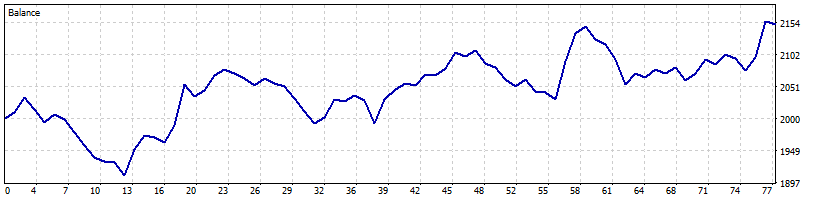
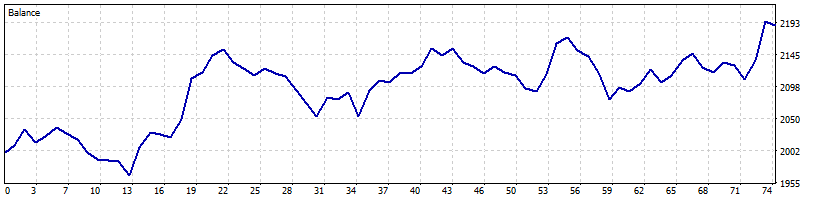
docs: refresh default real-tick report

diff --git a/reports/default-2026-real-ticks/index.html b/reports/default-2026-real-ticks/index.html
@@ -1,16 +1,101 @@
-<!doctype html><html lang="en"><head><meta charset="utf-8"><meta name="viewport" content="width=device-width,initial-scale=1">
-<title>Default profile - XAUUSDm M1 vs M5, real ticks Jan-Sep 2026</title><style>
-:root{--bg:#f6f7f9;--card:#fff;--fg:#1d2330;--mut:#667085;--line:#e3e6ea;--pos:#1a7f37;--neg:#cf222e}
-@media (prefers-color-scheme:dark){:root{--bg:#111418;--card:#1a1f26;--fg:#e6e9ee;--mut:#8b95a3;--line:#2a313b;--pos:#3fb950;--neg:#f85149}}
-body{margin:0;padding:16px;background:var(--bg);color:var(--fg);font:14px/1.45 system-ui,Segoe UI,sans-serif}
-main{max-width:1200px;margin:0 auto} h1{font-size:22px} h2{font-size:17px;margin-top:28px} h3{font-size:15px}
-table{border-collapse:collapse;background:var(--card);border:1px solid var(--line);margin:8px 0;display:block;overflow-x:auto}
-th,td{padding:6px 10px;border-bottom:1px solid var(--line);text-align:left;white-space:nowrap}
-.grid{display:grid;grid-template-columns:repeat(auto-fill,minmax(380px,1fr));gap:10px}
-figure{margin:0;background:var(--card);border:1px solid var(--line);border-radius:8px;padding:8px}
-img{width:100%;height:auto;display:block;background:#fff;border-radius:4px} figcaption{margin-bottom:6px}
-.pos{color:var(--pos);font-weight:600} .neg{color:var(--neg);font-weight:600} .mut{color:var(--mut)}
-</style></head><body><main><h1>Default profile - XAUUSDm M1 vs M5, real ticks Jan-Sep 2026</h1><table><tr><th>EA</th><td>nyao_scalper.mq5</td></tr><tr><th>Settings</th><td>settings/default.set</td></tr><tr><th>Code version</th><td>d0b484e</td></tr><tr><th>Symbol / timeframes</th><td>XAUUSDm / M1, M5</td></tr><tr><th>Tick data</th><td>Every tick based on real ticks</td></tr><tr><th>Deposit / leverage</th><td>2,000 USD / 1:500</td></tr><tr><th>Runs</th><td>one run per month, each starting from a fresh deposit</td></tr><tr><th>Generated</th><td>2026-10-13 01:05 with `tools/backtest/nyao_backtest.py</td></tr></table>
-<h2>Summary</h2><p class="mut">Total return is the sum of the monthly returns (each month starts from the same deposit, not compounded).</p><table><tr><th>Timeframe</th><th>Total return</th><th>Profitable</th><th>Best / worst run</th><th>Max drawdown</th><th>Trades</th><th>Win rate</th><th>Avg win / loss</th><th>Profit factor</th><th>Tick data</th></tr><tr><td>M1</td><td>-12.6%</td><td>4/9</td><td>+30.1% / -28.5%</td><td>39.2%</td><td>1,725</td><td>42%</td><td>$20.09 / -$14.54</td><td>0.98</td><td>100% real ticks</td></tr><tr><td>M5</td><td>+44.1%</td><td>5/9</td><td>+30.8% / -9.5%</td><td>19.0%</td><td>928</td><td>42%</td><td>$21.58 / -$13.87</td><td>1.12</td><td>100% real ticks</td></tr></table>
-<h2>Results per run</h2><table><tr><th>Run</th><th>M1</th><th>M5</th></tr><tr><th>2026-01</th><td><span class="pos">+30.1%</span> <span class="mut">DD 14% · 194 trades</span></td><td><span class="pos">+30.8%</span> <span class="mut">DD 7% · 127 trades</span></td></tr><tr><th>2026-02</th><td><span class="neg">-8.5%</span> <span class="mut">DD 25% · 248 trades</span></td><td><span class="neg">-7.1%</span> <span class="mut">DD 19% · 127 trades</span></td></tr><tr><th>2026-03</th><td><span class="pos">+2.8%</span> <span class="mut">DD 30% · 313 trades</span></td><td><span class="pos">+4.8%</span> <span class="mut">DD 17% · 139 trades</span></td></tr><tr><th>2026-04</th><td><span class="neg">-17.1%</span> <span class="mut">DD 26% · 194 trades</span></td><td><span class="neg">-7.2%</span> <span class="mut">DD 16% · 97 trades</span></td></tr><tr><th>2026-05</th><td><span class="pos">+3.2%</span> <span class="mut">DD 19% · 150 trades</span></td><td><span class="pos">+12.3%</span> <span class="mut">DD 10% · 98 trades</span></td></tr><tr><th>2026-06</th><td><span class="pos">+19.0%</span> <span class="mut">DD 18% · 204 trades</span></td><td><span class="pos">+21.0%</span> <span class="mut">DD 11% · 127 trades</span></td></tr><tr><th>2026-07</th><td><span class="neg">-6.8%</span> <span class="mut">DD 15% · 132 trades</span></td><td><span class="pos">+7.5%</span> <span class="mut">DD 8% · 77 trades</span></td></tr><tr><th>2026-08</th><td><span class="neg">-6.7%</span> <span class="mut">DD 14% · 144 trades</span></td><td><span class="neg">-9.5%</span> <span class="mut">DD 14% · 68 trades</span></td></tr><tr><th>2026-09</th><td><span class="neg">-28.5%</span> <span class="mut">DD 39% · 146 trades</span></td><td><span class="neg">-8.6%</span> <span class="mut">DD 17% · 68 trades</span></td></tr></table>
-<h2>Balance graphs</h2><h3>M1</h3><div class="grid"><figure><figcaption><b>2026-01</b> <span class="pos">+30.1%</span> <span class="mut">DD 14% · 194 trades</span></figcaption><img src="graphs/M1_2026-01.png" alt="M1 2026-01 balance graph"></figure><figure><figcaption><b>2026-02</b> <span class="neg">-8.5%</span> <span class="mut">DD 25% · 248 trades</span></figcaption><img src="graphs/M1_2026-02.png" alt="M1 2026-02 balance graph"></figure><figure><figcaption><b>2026-03</b> <span class="pos">+2.8%</span> <span class="mut">DD 30% · 313 trades</span></figcaption><img src="graphs/M1_2026-03.png" alt="M1 2026-03 balance graph"></figure><figure><figcaption><b>2026-04</b> <span class="neg">-17.1%</span> <span class="mut">DD 26% · 194 trades</span></figcaption><img src="graphs/M1_2026-04.png" alt="M1 2026-04 balance graph"></figure><figure><figcaption><b>2026-05</b> <span class="pos">+3.2%</span> <span class="mut">DD 19% · 150 trades</span></figcaption><img src="graphs/M1_2026-05.png" alt="M1 2026-05 balance graph"></figure><figure><figcaption><b>2026-06</b> <span class="pos">+19.0%</span> <span class="mut">DD 18% · 204 trades</span></figcaption><img src="graphs/M1_2026-06.png" alt="M1 2026-06 balance graph"></figure><figure><figcaption><b>2026-07</b> <span class="neg">-6.8%</span> <span class="mut">DD 15% · 132 trades</span></figcaption><img src="graphs/M1_2026-07.png" alt="M1 2026-07 balance graph"></figure><figure><figcaption><b>2026-08</b> <span class="neg">-6.7%</span> <span class="mut">DD 14% · 144 trades</span></figcaption><img src="graphs/M1_2026-08.png" alt="M1 2026-08 balance graph"></figure><figure><figcaption><b>2026-09</b> <span class="neg">-28.5%</span> <span class="mut">DD 39% · 146 trades</span></figcaption><img src="graphs/M1_2026-09.png" alt="M1 2026-09 balance graph"></figure></div><h3>M5</h3><div class="grid"><figure><figcaption><b>2026-01</b> <span class="pos">+30.8%</span> <span class="mut">DD 7% · 127 trades</span></figcaption><img src="graphs/M5_2026-01.png" alt="M5 2026-01 balance graph"></figure><figure><figcaption><b>2026-02</b> <span class="neg">-7.1%</span> <span class="mut">DD 19% · 127 trades</span></figcaption><img src="graphs/M5_2026-02.png" alt="M5 2026-02 balance graph"></figure><figure><figcaption><b>2026-03</b> <span class="pos">+4.8%</span> <span class="mut">DD 17% · 139 trades</span></figcaption><img src="graphs/M5_2026-03.png" alt="M5 2026-03 balance graph"></figure><figure><figcaption><b>2026-04</b> <span class="neg">-7.2%</span> <span class="mut">DD 16% · 97 trades</span></figcaption><img src="graphs/M5_2026-04.png" alt="M5 2026-04 balance graph"></figure><figure><figcaption><b>2026-05</b> <span class="pos">+12.3%</span> <span class="mut">DD 10% · 98 trades</span></figcaption><img src="graphs/M5_2026-05.png" alt="M5 2026-05 balance graph"></figure><figure><figcaption><b>2026-06</b> <span class="pos">+21.0%</span> <span class="mut">DD 11% · 127 trades</span></figcaption><img src="graphs/M5_2026-06.png" alt="M5 2026-06 balance graph"></figure><figure><figcaption><b>2026-07</b> <span class="pos">+7.5%</span> <span class="mut">DD 8% · 77 trades</span></figcaption><img src="graphs/M5_2026-07.png" alt="M5 2026-07 balance graph"></figure><figure><figcaption><b>2026-08</b> <span class="neg">-9.5%</span> <span class="mut">DD 14% · 68 trades</span></figcaption><img src="graphs/M5_2026-08.png" alt="M5 2026-08 balance graph"></figure><figure><figcaption><b>2026-09</b> <span class="neg">-8.6%</span> <span class="mut">DD 17% · 68 trades</span></figcaption><img src="graphs/M5_2026-09.png" alt="M5 2026-09 balance graph"></figure></div></main></body></html>
+<!doctype html>
+<html lang="en"><head><meta charset="utf-8"><meta name="viewport" content="width=device-width,initial-scale=1">
+<title>Default profile - XAUUSDm M1 vs M5, real ticks Jan-Sep 2026</title><meta name="theme-color" content="#121314">
+<link rel="preconnect" href="https://fonts.googleapis.com"><link rel="preconnect" href="https://fonts.gstatic.com" crossorigin>
+<link href="https://fonts.googleapis.com/css2?family=Geist:wght@400;500;600&family=Geist+Mono:wght@400;500&display=swap" rel="stylesheet">
+<style>
+:root{color-scheme:dark;--bg:#121314;--surface:#18191b;--surface-2:#1f2022;--text:#f5f5f5;--muted:#a9abae;--faint:#75777c;
+--border:#26282a;--border-strong:#34373a;--accent:#ffb547;--accent-hover:#ffc670;--success:#4ade80;--danger:#ff7b72;
+--radius-ui:6px;--frame:1360px;--pad:clamp(20px,4vw,48px);--gutter:16px;
+--sans:'Geist',system-ui,sans-serif;--mono:'Geist Mono',ui-monospace,'Cascadia Code',Menlo,Consolas,monospace}
+@media (max-width:560px){:root{--pad:16px;--gutter:10px}}
+*,*::before,*::after{box-sizing:border-box}
+html{background:var(--bg);-webkit-text-size-adjust:100%}
+body{margin:0;background:var(--bg);color:var(--text);font:16px/1.6 var(--sans);-webkit-font-smoothing:antialiased;text-rendering:optimizeLegibility}
+a{color:var(--text);text-decoration:none}a:hover{color:var(--accent)}
+img{max-width:100%;height:auto}
+::selection{background:var(--accent);color:var(--bg)}
+h1,h2,h3{margin:0 0 .5em;line-height:1.15;font-weight:600;letter-spacing:-.02em}
+.mono{font-family:var(--mono)}.muted{color:var(--muted)}.faint{color:var(--faint)}
+.pos{color:var(--success)}.neg{color:var(--danger)}
+/* Frame system: full-width bands, a framed column with corner squares, cells that share their lines */
+.band{position:relative;border-top:1px solid var(--border)}
+.frame{position:relative;width:min(var(--frame),calc(100% - 2*var(--gutter)));margin-inline:auto;border-inline:1px solid var(--border)}
+.band>.frame::before,.band>.frame::after{content:'';position:absolute;top:-5px;z-index:2;width:9px;height:9px;border:1px solid var(--border-strong);background:var(--bg)}
+.band>.frame::before{left:-5px}.band>.frame::after{right:-5px}
+.spacer>.frame{height:clamp(16px,3.2vw,56px)}
+main>.spacer:first-child{border-top:0}main>.spacer:first-child>.frame::before,main>.spacer:first-child>.frame::after{display:none}
+.cells{display:grid;margin-bottom:-1px}
+.cells>*{position:relative}
+.cells>*::before,.cells>*::after{content:'';position:absolute;z-index:1;background:var(--border);pointer-events:none}
+.cells>*::after{top:0;right:-1px;width:1px;height:calc(100% + 1px)}
+.cells>*::before{bottom:-1px;left:0;width:calc(100% + 1px);height:1px}
+.section-title{margin:0;padding:clamp(28px,4vw,40px) var(--pad);font:500 clamp(18px,2.2vw,22px)/1.2 var(--mono);letter-spacing:-.01em}
+.slashes{color:var(--accent);font-weight:400}
+.tag{display:inline-block;padding:2px 8px;border:1px solid var(--border-strong);border-radius:4px;background:var(--surface);color:var(--muted);font:11.5px/1.6 var(--mono);white-space:nowrap}
+/* Header and footer */
+.site-header{position:sticky;top:0;z-index:20;border-bottom:1px solid var(--border);background:rgb(18 19 20/.85);backdrop-filter:blur(12px)}
+.bar{display:flex;flex-wrap:wrap;align-items:center;justify-content:space-between;gap:8px 24px;width:min(var(--frame),calc(100% - 2*var(--gutter)));min-height:72px;margin-inline:auto}
+.brand{display:inline-flex;align-items:center;gap:12px;font-weight:600;letter-spacing:-.02em}
+.brand .tag{font-weight:400}
+.links{display:flex;gap:20px;font:13.5px var(--mono)}.links a{color:var(--muted)}.links a:hover{color:var(--accent)}
+.site-footer .bar{padding-block:18px;color:var(--faint);font:13px var(--mono)}
+.site-footer a{color:var(--muted)}
+/* Intro */
+.intro{padding:clamp(32px,6vw,64px) var(--pad);border-top:1px solid var(--border)}
+.intro h1{max-width:24ch;margin:0;font-size:clamp(32px,5vw,52px);line-height:1.05;letter-spacing:-.045em}
+.lead{max-width:64ch;margin:20px 0 0;color:var(--muted);font-size:18px}.lead b{color:var(--text);font-weight:600}
+/* Setup cells */
+.setup{grid-template-columns:repeat(auto-fit,minmax(min(100%,300px),1fr));border-top:1px solid var(--border)}
+.setup>div{padding:clamp(18px,2.4vw,28px) var(--pad)}
+.label{display:block;margin-bottom:8px;color:var(--faint);font:12px var(--mono);letter-spacing:.02em}
+.setup .value{font-size:15px;word-break:break-word}
+/* Summary cells */
+.summary{grid-template-columns:repeat(auto-fit,minmax(min(100%,320px),1fr));border-top:1px solid var(--border)}
+.summary>div{padding:clamp(24px,3vw,36px) var(--pad)}
+.big{display:block;margin:14px 0 2px;font-size:clamp(40px,5vw,56px);font-weight:600;line-height:1;letter-spacing:-.045em}
+.metrics{margin:22px 0 0;display:grid;gap:0}
+.metrics div{display:flex;justify-content:space-between;gap:16px;padding:9px 0;border-top:1px solid var(--border)}
+.metrics dt{color:var(--muted);font-size:14.5px}.metrics dd{margin:0;font:14px var(--mono);text-align:right}
+/* Table */
+.table-wrap{overflow-x:auto;border-top:1px solid var(--border)}
+table{width:100%;border-collapse:collapse;font-size:15px}
+th,td{padding:12px var(--pad);border-bottom:1px solid var(--border);text-align:left;white-space:nowrap}
+thead th{color:var(--faint);font:500 12px var(--mono);letter-spacing:.02em}
+tbody th{font:500 14px var(--mono)}
+tbody tr:hover{background:var(--surface)}
+td .ret{font:600 15px var(--mono)}td .sub{margin-left:10px;color:var(--faint);font:12.5px var(--mono)}
+tbody tr:last-child th,tbody tr:last-child td{border-bottom:0}
+/* Graphs */
+.tf{margin:0;padding:18px var(--pad);border-top:1px solid var(--border);font:500 15px var(--mono)}
+.graphs{grid-template-columns:repeat(auto-fill,minmax(min(100%,360px),1fr));border-top:1px solid var(--border)}
+.graphs figure{margin:0;padding:clamp(16px,2vw,24px)}
+.graphs figcaption{display:flex;flex-wrap:wrap;align-items:baseline;gap:4px 10px;margin-bottom:12px;font:13.5px var(--mono)}
+.graphs figcaption b{color:var(--text);font-weight:500}
+.graphs img{display:block;width:100%;border:1px solid var(--border);border-radius:var(--radius-ui);background:#fff}
+.note{padding:clamp(20px,3vw,28px) var(--pad);border-top:1px solid var(--border);color:var(--muted);font-size:14.5px}
+.note p{margin:0 0 .6em}.note p:last-child{margin:0}
+@media (max-width:640px){.links{display:none}}
+</style></head>
+<body>
+<header class="site-header"><div class="bar">
+<span class="brand">Nyao Scalper v45.0 <span class="tag">Backtest Report</span></span>
+<nav class="links" aria-label="Links"><a href="https://github.com/elrizwiraswara/nyao_scalper_mt5">GitHub &#8599;</a></nav>
+</div></header>
+<main>
+<div class="band spacer" aria-hidden="true"><div class="frame"></div></div>
+<section class="band"><div class="frame"><p class="section-title"><span class="slashes">//</span> Backtest Report</p><div class="intro"><h1>Default profile - XAUUSDm M1 vs M5, real ticks Jan-Sep 2026</h1><p class="lead"><b>Nyao Scalper v45.0</b> with <b>settings/default.set</b> on XAUUSDm M1, M5, real ticks, 2026-01 to 2026-09. Each month is a separate run starting from the same deposit.</p></div></div></section>
+<div class="band spacer" aria-hidden="true"><div class="frame"></div></div>
+<section class="band"><div class="frame"><h2 class="section-title"><span class="slashes">//</span> Setup</h2><div class="cells setup"><div><span class="label">EA</span><span class="value">Nyao Scalper v45.0 (nyao_scalper.mq5)</span></div><div><span class="label">Settings</span><span class="value">settings/default.set</span></div><div><span class="label">Git commit</span><span class="value">eeb53ce</span></div><div><span class="label">Symbol / timeframes</span><span class="value">XAUUSDm / M1, M5</span></div><div><span class="label">Tick data</span><span class="value">Every tick based on real ticks</span></div><div><span class="label">Deposit / leverage</span><span class="value">2,000 USD / 1:500</span></div><div><span class="label">Runs</span><span class="value">One run per month, each starting from a fresh deposit</span></div><div><span class="label">Generated</span><span class="value">2026-10-13 02:27 with tools/backtest/nyao_backtest.py</span></div></div></div></section>
+<div class="band spacer" aria-hidden="true"><div class="frame"></div></div>
+<section class="band"><div class="frame"><h2 class="section-title"><span class="slashes">//</span> Summary</h2><div class="cells summary"><div><span class="tag">M1</span><span class="big neg">-14.7%</span><span class="muted">Total return (sum of runs)</span><dl class="metrics"><div><dt>Profitable runs</dt><dd>4 / 9</dd></div><div><dt>Best / worst run</dt><dd>+24.0% / -25.8%</dd></div><div><dt>Max drawdown</dt><dd>37.3%</dd></div><div><dt>Profit factor</dt><dd>0.98</dd></div><div><dt>Trades</dt><dd>1,618</dd></div><div><dt>Win rate</dt><dd>42%</dd></div><div><dt>Avg win / loss</dt><dd>$20.07 / -$14.64</dd></div><div><dt>Tick data</dt><dd>100% real ticks</dd></div></dl></div><div><span class="tag">M5</span><span class="big pos">+50.1%</span><span class="muted">Total return (sum of runs)</span><dl class="metrics"><div><dt>Profitable runs</dt><dd>5 / 9</dd></div><div><dt>Best / worst run</dt><dd>+34.1% / -7.8%</dd></div><div><dt>Max drawdown</dt><dd>20.3%</dd></div><div><dt>Profit factor</dt><dd>1.15</dd></div><div><dt>Trades</dt><dd>824</dd></div><div><dt>Win rate</dt><dd>42%</dd></div><div><dt>Avg win / loss</dt><dd>$21.84 / -$13.94</dd></div><div><dt>Tick data</dt><dd>100% real ticks</dd></div></dl></div></div></div></section>
+<div class="band spacer" aria-hidden="true"><div class="frame"></div></div>
+<section class="band"><div class="frame"><h2 class="section-title"><span class="slashes">//</span> Results per Run</h2><div class="table-wrap"><table><thead><tr><th>Run</th><th>M1</th><th>M5</th></tr></thead><tbody><tr><th>2026-01</th><td><span class="ret pos">+24.0%</span><span class="sub">DD 12% · 180 trades</span></td><td><span class="ret pos">+34.1%</span><span class="sub">DD 6% · 109 trades</span></td></tr><tr><th>2026-02</th><td><span class="ret neg">-17.3%</span><span class="sub">DD 34% · 226 trades</span></td><td><span class="ret neg">-6.9%</span><span class="sub">DD 20% · 97 trades</span></td></tr><tr><th>2026-03</th><td><span class="ret neg">-2.4%</span><span class="sub">DD 28% · 296 trades</span></td><td><span class="ret pos">+12.7%</span><span class="sub">DD 16% · 135 trades</span></td></tr><tr><th>2026-04</th><td><span class="ret neg">-14.0%</span><span class="sub">DD 24% · 191 trades</span></td><td><span class="ret neg">-6.5%</span><span class="sub">DD 16% · 84 trades</span></td></tr><tr><th>2026-05</th><td><span class="ret pos">+4.9%</span><span class="sub">DD 16% · 140 trades</span></td><td><span class="ret pos">+7.7%</span><span class="sub">DD 9% · 74 trades</span></td></tr><tr><th>2026-06</th><td><span class="ret pos">+19.2%</span><span class="sub">DD 17% · 188 trades</span></td><td><span class="ret pos">+13.2%</span><span class="sub">DD 12% · 116 trades</span></td></tr><tr><th>2026-07</th><td><span class="ret neg">-3.8%</span><span class="sub">DD 15% · 124 trades</span></td><td><span class="ret pos">+9.5%</span><span class="sub">DD 6% · 74 trades</span></td></tr><tr><th>2026-08</th><td><span class="ret pos">+0.5%</span><span class="sub">DD 13% · 137 trades</span></td><td><span class="ret neg">-7.8%</span><span class="sub">DD 15% · 68 trades</span></td></tr><tr><th>2026-09</th><td><span class="ret neg">-25.8%</span><span class="sub">DD 37% · 136 trades</span></td><td><span class="ret neg">-5.9%</span><span class="sub">DD 14% · 67 trades</span></td></tr></tbody></table></div></div></section>
+<div class="band spacer" aria-hidden="true"><div class="frame"></div></div>
+<section class="band"><div class="frame"><h2 class="section-title"><span class="slashes">//</span> Balance Graphs</h2><h3 class="tf">M1</h3><div class="cells graphs"><figure><figcaption><b>2026-01</b><span class="pos">+24.0%</span><span class="faint">DD 12% · 180 trades</span></figcaption><img src="graphs/M1_2026-01.png" alt="M1 2026-01 balance graph" loading="lazy"></figure><figure><figcaption><b>2026-02</b><span class="neg">-17.3%</span><span class="faint">DD 34% · 226 trades</span></figcaption><img src="graphs/M1_2026-02.png" alt="M1 2026-02 balance graph" loading="lazy"></figure><figure><figcaption><b>2026-03</b><span class="neg">-2.4%</span><span class="faint">DD 28% · 296 trades</span></figcaption><img src="graphs/M1_2026-03.png" alt="M1 2026-03 balance graph" loading="lazy"></figure><figure><figcaption><b>2026-04</b><span class="neg">-14.0%</span><span class="faint">DD 24% · 191 trades</span></figcaption><img src="graphs/M1_2026-04.png" alt="M1 2026-04 balance graph" loading="lazy"></figure><figure><figcaption><b>2026-05</b><span class="pos">+4.9%</span><span class="faint">DD 16% · 140 trades</span></figcaption><img src="graphs/M1_2026-05.png" alt="M1 2026-05 balance graph" loading="lazy"></figure><figure><figcaption><b>2026-06</b><span class="pos">+19.2%</span><span class="faint">DD 17% · 188 trades</span></figcaption><img src="graphs/M1_2026-06.png" alt="M1 2026-06 balance graph" loading="lazy"></figure><figure><figcaption><b>2026-07</b><span class="neg">-3.8%</span><span class="faint">DD 15% · 124 trades</span></figcaption><img src="graphs/M1_2026-07.png" alt="M1 2026-07 balance graph" loading="lazy"></figure><figure><figcaption><b>2026-08</b><span class="pos">+0.5%</span><span class="faint">DD 13% · 137 trades</span></figcaption><img src="graphs/M1_2026-08.png" alt="M1 2026-08 balance graph" loading="lazy"></figure><figure><figcaption><b>2026-09</b><span class="neg">-25.8%</span><span class="faint">DD 37% · 136 trades</span></figcaption><img src="graphs/M1_2026-09.png" alt="M1 2026-09 balance graph" loading="lazy"></figure></div><h3 class="tf">M5</h3><div class="cells graphs"><figure><figcaption><b>2026-01</b><span class="pos">+34.1%</span><span class="faint">DD 6% · 109 trades</span></figcaption><img src="graphs/M5_2026-01.png" alt="M5 2026-01 balance graph" loading="lazy"></figure><figure><figcaption><b>2026-02</b><span class="neg">-6.9%</span><span class="faint">DD 20% · 97 trades</span></figcaption><img src="graphs/M5_2026-02.png" alt="M5 2026-02 balance graph" loading="lazy"></figure><figure><figcaption><b>2026-03</b><span class="pos">+12.7%</span><span class="faint">DD 16% · 135 trades</span></figcaption><img src="graphs/M5_2026-03.png" alt="M5 2026-03 balance graph" loading="lazy"></figure><figure><figcaption><b>2026-04</b><span class="neg">-6.5%</span><span class="faint">DD 16% · 84 trades</span></figcaption><img src="graphs/M5_2026-04.png" alt="M5 2026-04 balance graph" loading="lazy"></figure><figure><figcaption><b>2026-05</b><span class="pos">+7.7%</span><span class="faint">DD 9% · 74 trades</span></figcaption><img src="graphs/M5_2026-05.png" alt="M5 2026-05 balance graph" loading="lazy"></figure><figure><figcaption><b>2026-06</b><span class="pos">+13.2%</span><span class="faint">DD 12% · 116 trades</span></figcaption><img src="graphs/M5_2026-06.png" alt="M5 2026-06 balance graph" loading="lazy"></figure><figure><figcaption><b>2026-07</b><span class="pos">+9.5%</span><span class="faint">DD 6% · 74 trades</span></figcaption><img src="graphs/M5_2026-07.png" alt="M5 2026-07 balance graph" loading="lazy"></figure><figure><figcaption><b>2026-08</b><span class="neg">-7.8%</span><span class="faint">DD 15% · 68 trades</span></figcaption><img src="graphs/M5_2026-08.png" alt="M5 2026-08 balance graph" loading="lazy"></figure><figure><figcaption><b>2026-09</b><span class="neg">-5.9%</span><span class="faint">DD 14% · 67 trades</span></figcaption><img src="graphs/M5_2026-09.png" alt="M5 2026-09 balance graph" loading="lazy"></figure></div></div></section>
+<div class="band spacer" aria-hidden="true"><div class="frame"></div></div>
+<section class="band"><div class="frame"><h2 class="section-title"><span class="slashes">//</span> Notes</h2><div class="note"><p>Total return is the sum of the monthly returns: each month starts from the same deposit, so it is not compounded.</p><p>Backtests are not a guarantee of future results. Trading Forex and CFDs involves significant risk; forward-test on a demo account before using real money.</p></div></div></section>
+<div class="band spacer" aria-hidden="true"><div class="frame"></div></div>
+</main>
+<footer class="band site-footer"><div class="bar"><span>Generated with tools/backtest/nyao_backtest.py</span><a href="https://github.com/elrizwiraswara/nyao_scalper_mt5">github.com/elrizwiraswara/nyao_scalper_mt5</a></div></footer>
+</body></html>

diff --git a/reports/default-2026-real-ticks/summary.md b/reports/default-2026-real-ticks/summary.md
@@ -2,14 +2,14 @@
 
 | Setting | Value |
 |---|---|
-| EA | `nyao_scalper.mq5` |
+| EA | Nyao Scalper v45.0 (`nyao_scalper.mq5`) |
 | Settings | `settings/default.set` |
-| Code version | d0b484e |
+| Git commit | eeb53ce |
 | Symbol / timeframes | XAUUSDm / M1, M5 |
 | Tick data | Every tick based on real ticks |
 | Deposit / leverage | 2,000 USD / 1:500 |
-| Runs | one run per month, each starting from a fresh deposit |
-| Generated | 2026-10-13 01:05 with `tools/backtest/nyao_backtest.py` |
+| Runs | One run per month, each starting from a fresh deposit |
+| Generated | 2026-10-13 02:27 with `tools/backtest/nyao_backtest.py` |
 
 ## Summary
 
@@ -17,97 +17,97 @@ Total return is the sum of the monthly returns (each month starts from the same 
 
 | Timeframe | Total return | Profitable | Best / worst run | Max drawdown | Trades | Win rate | Avg win / loss | Profit factor | Tick data |
 |---|---|---|---|---|---|---|---|---|---|
-| M1 | -12.6% | 4/9 | +30.1% / -28.5% | 39.2% | 1,725 | 42% | $20.09 / -$14.54 | 0.98 | 100% real ticks |
-| M5 | +44.1% | 5/9 | +30.8% / -9.5% | 19.0% | 928 | 42% | $21.58 / -$13.87 | 1.12 | 100% real ticks |
+| M1 | -14.7% | 4/9 | +24.0% / -25.8% | 37.3% | 1,618 | 42% | $20.07 / -$14.64 | 0.98 | 100% real ticks |
+| M5 | +50.1% | 5/9 | +34.1% / -7.8% | 20.3% | 824 | 42% | $21.84 / -$13.94 | 1.15 | 100% real ticks |
 
 ## Results per run
 
 | Run | M1 | M5 |
 |---|---|---|
-| 2026-01 | +30.1% (DD 14%, 194 trades) | +30.8% (DD 7%, 127 trades) |
-| 2026-02 | -8.5% (DD 25%, 248 trades) | -7.1% (DD 19%, 127 trades) |
-| 2026-03 | +2.8% (DD 30%, 313 trades) | +4.8% (DD 17%, 139 trades) |
-| 2026-04 | -17.1% (DD 26%, 194 trades) | -7.2% (DD 16%, 97 trades) |
-| 2026-05 | +3.2% (DD 19%, 150 trades) | +12.3% (DD 10%, 98 trades) |
-| 2026-06 | +19.0% (DD 18%, 204 trades) | +21.0% (DD 11%, 127 trades) |
-| 2026-07 | -6.8% (DD 15%, 132 trades) | +7.5% (DD 8%, 77 trades) |
-| 2026-08 | -6.7% (DD 14%, 144 trades) | -9.5% (DD 14%, 68 trades) |
-| 2026-09 | -28.5% (DD 39%, 146 trades) | -8.6% (DD 17%, 68 trades) |
+| 2026-01 | +24.0% (DD 12%, 180 trades) | +34.1% (DD 6%, 109 trades) |
+| 2026-02 | -17.3% (DD 34%, 226 trades) | -6.9% (DD 20%, 97 trades) |
+| 2026-03 | -2.4% (DD 28%, 296 trades) | +12.7% (DD 16%, 135 trades) |
+| 2026-04 | -14.0% (DD 24%, 191 trades) | -6.5% (DD 16%, 84 trades) |
+| 2026-05 | +4.9% (DD 16%, 140 trades) | +7.7% (DD 9%, 74 trades) |
+| 2026-06 | +19.2% (DD 17%, 188 trades) | +13.2% (DD 12%, 116 trades) |
+| 2026-07 | -3.8% (DD 15%, 124 trades) | +9.5% (DD 6%, 74 trades) |
+| 2026-08 | +0.5% (DD 13%, 137 trades) | -7.8% (DD 15%, 68 trades) |
+| 2026-09 | -25.8% (DD 37%, 136 trades) | -5.9% (DD 14%, 67 trades) |
 
 ## Balance graphs
 
 ### M1
 
-**2026-01** +30.1%
+**2026-01** +24.0%
 
 ![M1 2026-01](graphs/M1_2026-01.png)
 
-**2026-02** -8.5%
+**2026-02** -17.3%
 
 ![M1 2026-02](graphs/M1_2026-02.png)
 
-**2026-03** +2.8%
+**2026-03** -2.4%
 
 ![M1 2026-03](graphs/M1_2026-03.png)
 
-**2026-04** -17.1%
+**2026-04** -14.0%
 
 ![M1 2026-04](graphs/M1_2026-04.png)
 
-**2026-05** +3.2%
+**2026-05** +4.9%
 
 ![M1 2026-05](graphs/M1_2026-05.png)
 
-**2026-06** +19.0%
+**2026-06** +19.2%
 
 ![M1 2026-06](graphs/M1_2026-06.png)
 
-**2026-07** -6.8%
+**2026-07** -3.8%
 
 ![M1 2026-07](graphs/M1_2026-07.png)
 
-**2026-08** -6.7%
+**2026-08** +0.5%
 
 ![M1 2026-08](graphs/M1_2026-08.png)
 
-**2026-09** -28.5%
+**2026-09** -25.8%
 
 ![M1 2026-09](graphs/M1_2026-09.png)
 
 ### M5
 
-**2026-01** +30.8%
+**2026-01** +34.1%
 
 ![M5 2026-01](graphs/M5_2026-01.png)
 
-**2026-02** -7.1%
+**2026-02** -6.9%
 
 ![M5 2026-02](graphs/M5_2026-02.png)
 
-**2026-03** +4.8%
+**2026-03** +12.7%
 
 ![M5 2026-03](graphs/M5_2026-03.png)
 
-**2026-04** -7.2%
+**2026-04** -6.5%
 
 ![M5 2026-04](graphs/M5_2026-04.png)
 
-**2026-05** +12.3%
+**2026-05** +7.7%
 
 ![M5 2026-05](graphs/M5_2026-05.png)
 
-**2026-06** +21.0%
+**2026-06** +13.2%
 
 ![M5 2026-06](graphs/M5_2026-06.png)
 
-**2026-07** +7.5%
+**2026-07** +9.5%
 
 ![M5 2026-07](graphs/M5_2026-07.png)
 
-**2026-08** -9.5%
+**2026-08** -7.8%
 
 ![M5 2026-08](graphs/M5_2026-08.png)
 
-**2026-09** -8.6%
+**2026-09** -5.9%
 
 ![M5 2026-09](graphs/M5_2026-09.png)
